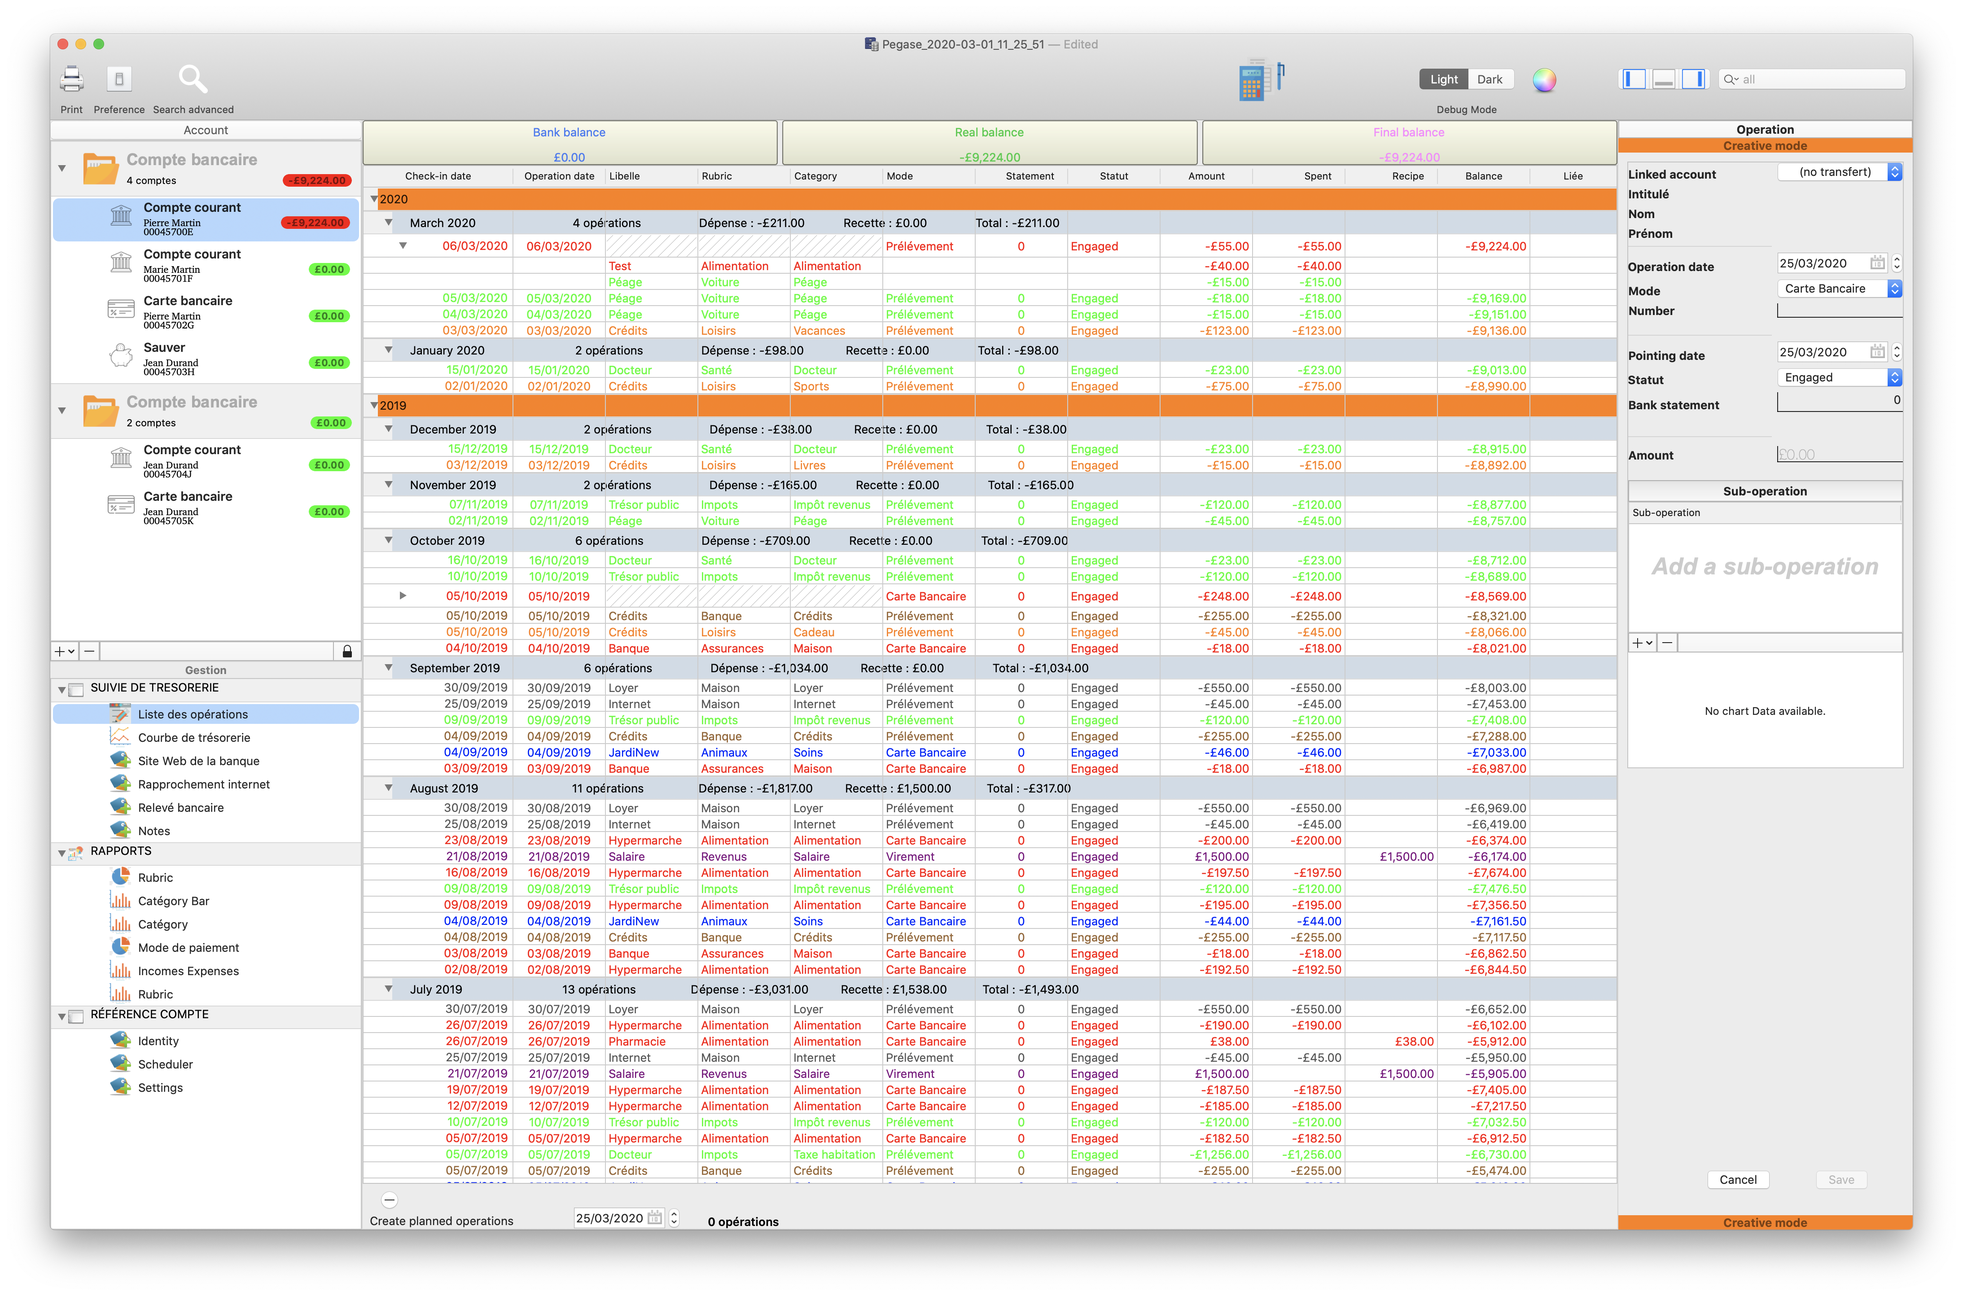
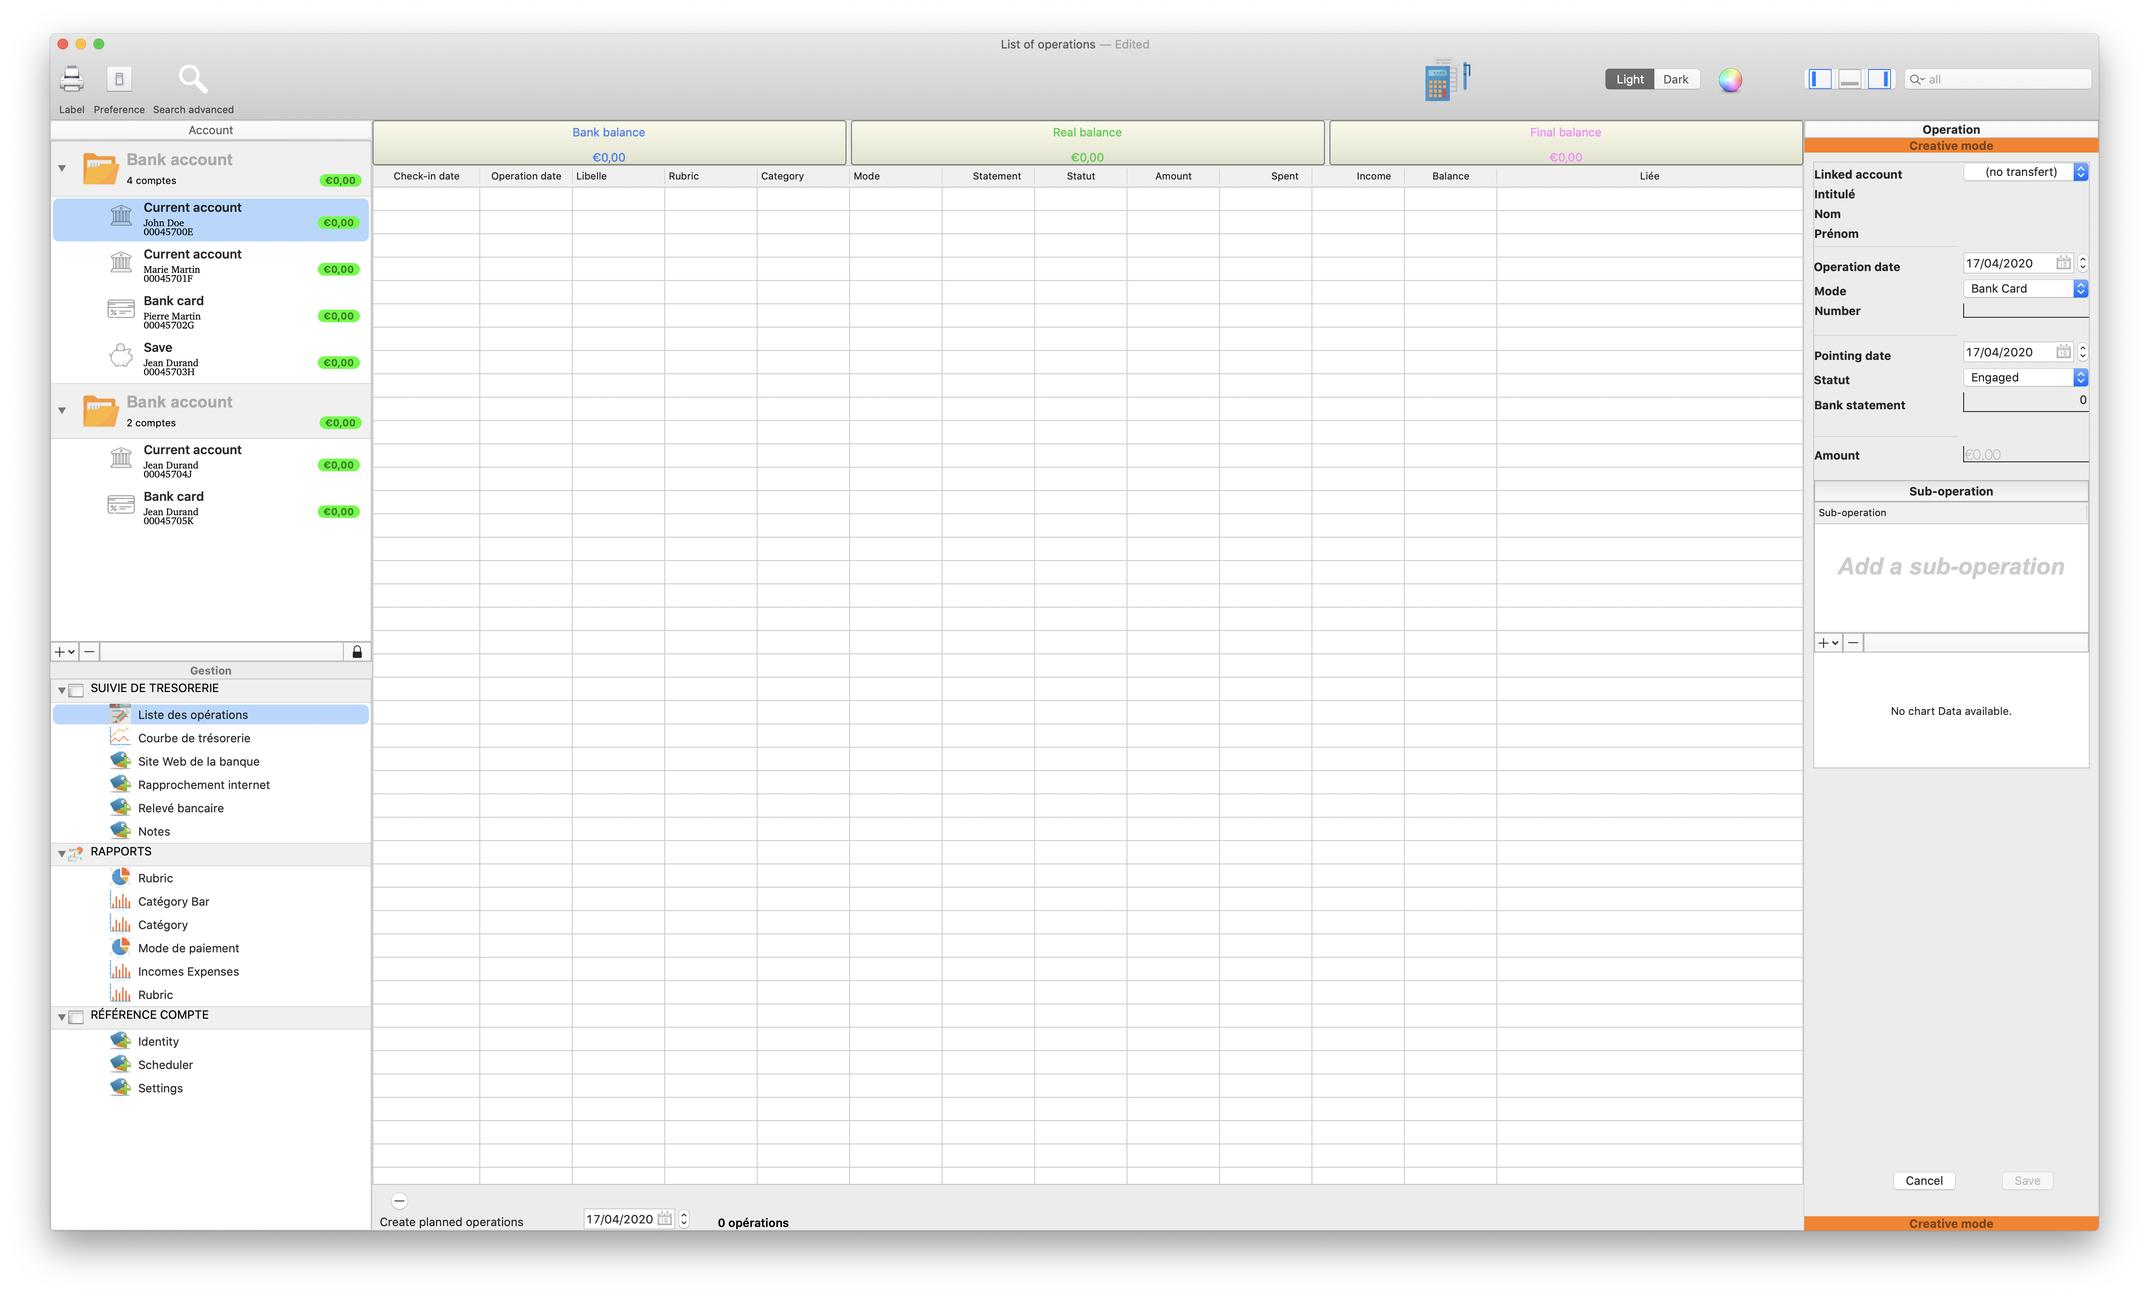
commit 2001

diff --git a/Pegase/ListeOperationsDelegate.swift b/Pegase/ListeOperationsDelegate.swift
@@ -57,15 +57,15 @@ extension ListeOperationsController: NSOutlineViewDelegate {
                     }
                 }
                 let depenseStr = formatterPrice.string(from: NSDecimalNumber(value: expenses))
-                let depenseFormatted = "Dépense : \( depenseStr!)".padding(toLength: 30, withPad: " ", startingAt: 0)
+                let depenseFormatted = "Expense : \( depenseStr!)".padding(toLength: 30, withPad: " ", startingAt: 0)
                 
-                let recetteStr = formatterPrice.string(from: NSDecimalNumber(value: incomes))
-                let recetteFormatted = "Recette : \( recetteStr!)".padding(toLength: 30, withPad: " ", startingAt: 0)
+                let incomeStr = formatterPrice.string(from: NSDecimalNumber(value: incomes))
+                let incomeFormatted = "Income : \( incomeStr!)".padding(toLength: 30, withPad: " ", startingAt: 0)
                 
                 let totalStr = formatterPrice.string(from: NSDecimalNumber(value: incomes + expenses))
                 let totalFormatted = "Total : \(totalStr!)".padding(toLength: 30, withPad: " ", startingAt: 0)
                 
-                titre = "     " + dateFormatted + operationsFormatted + depenseFormatted + recetteFormatted + totalFormatted
+                titre = "     " + dateFormatted + operationsFormatted + depenseFormatted + incomeFormatted + totalFormatted
             }
             
             let cellView = outlineView.makeView(withIdentifier: .FeedCellMonth, owner: self) as! KSHeaderCellView
@@ -170,7 +170,7 @@ extension ListeOperationsController: NSOutlineViewDelegate {
                     textField.stringValue = formatted
                     paragraph.alignment = .right
                 
-                case .recette:
+                case .income:
                     var price: NSNumber = 0.0
                     var formatted = ""
                     if quake.amount > 0 {
@@ -263,7 +263,7 @@ extension ListeOperationsController: NSOutlineViewDelegate {
                     textField.stringValue = formatted
                     paragraph.alignment = .right
                 
-                case .recette:
+                case .income:
                     var price: NSNumber = 0.0
                     var formatted = ""
                     if sousOperations.amount > 0 {
@@ -300,10 +300,10 @@ extension ListeOperationsController: NSOutlineViewDelegate {
         case .some(.unie):
             attrs[.foregroundColor] = NSColor.labelColor
         
-        case .some(.recette):
+        case .some(.income):
             switch propertyEnum {
             
-            case .depense, .montant, .recette:
+            case .depense, .montant, .income:
                 if quake.amount >= 0.0 {
                     attrs[.foregroundColor] = NSColor.green
                 } else {
@@ -353,10 +353,10 @@ extension ListeOperationsController: NSOutlineViewDelegate {
         case .some(.unie):
             attrs[.foregroundColor] = NSColor.labelColor
         
-        case .some(.recette):
+        case .some(.income):
             switch propertyEnum {
             
-            case .depense, .montant, .recette:
+            case .depense, .montant, .income:
                 if quake.amount >= 0.0 {
                     attrs[.foregroundColor] = NSColor.green
                 } else {

diff --git a/Pegase/IncomeExpensePieController.swift b/Pegase/IncomeExpensePieController.swift
@@ -49,7 +49,7 @@ class IncomeExpensePieController: CommonGraph {
         super.viewDidLoad()
         // Do view setup here.
         
-        NotificationCenter.receive(instance: self, name: .updateAccount, selector: #selector(updateChangeCompte(_:)))
+        NotificationCenter.receive(instance: self, name: .updateAccount, selector: #selector(updateChangeAccount))
         
         chartView.delegate = self
         chartView2.delegate = self
@@ -65,7 +65,7 @@ class IncomeExpensePieController: CommonGraph {
         updateAccount ()
     }
     
-    @objc func updateChangeCompte(_ note: Notification) {
+    @objc func updateChangeAccount(_ note: Notification) {
         
         updateAccount ()
         setDataHorizontal()
@@ -82,7 +82,7 @@ class IncomeExpensePieController: CommonGraph {
             .foregroundColor: NSColor.textColor,
             .paragraphStyle: paragraphStyle]
 
-        // MARK: - Chart View Depense
+        // MARK: - Chart View Expense
         var centerText = NSMutableAttributedString(string: Localizations.General.Expenses)
         centerText.setAttributes(attribut, range: NSRange(location: 0, length: centerText.length))
         chartView.centerAttributedText = centerText
@@ -99,7 +99,7 @@ class IncomeExpensePieController: CommonGraph {
         legend.font = NSFont(name: "HelveticaNeue-Light", size: CGFloat(14.0))!
         legend.textColor = .labelColor
 
-        // MARK: - Chart View2 Recette
+        // MARK: - Chart View2 Income
         centerText = NSMutableAttributedString(string: Localizations.General.Income)
         centerText.setAttributes(attribut, range: NSRange(location: 0, length: centerText.length))
         
@@ -174,7 +174,7 @@ class IncomeExpensePieController: CommonGraph {
         resultArrayIncome = resultArrayIncome.sorted(by: { $0.name < $1.name })
     }
     
-    func setDataCount1()
+    func setDataExpenses()
     {
         guard resultArrayExpense.isEmpty == false  else {
             chartView.data = nil
@@ -191,7 +191,7 @@ class IncomeExpensePieController: CommonGraph {
         }
         
         // MARK: PieChartDataSet
-        let dataSet = PieChartDataSet(entries: entries, label: "Dépenses")
+        let dataSet = PieChartDataSet(entries: entries, label: "Expenses")
         dataSet.sliceSpace = 2.0
         dataSet.colors = colors
         dataSet.valueLinePart1OffsetPercentage = 0.8
@@ -211,7 +211,7 @@ class IncomeExpensePieController: CommonGraph {
         chartView.data = data
     }
     
-    private func setDataCount2()
+    private func setDataIncomes()
     {
         guard resultArrayIncome.isEmpty == false else {
             chartView2.data = nil
@@ -228,7 +228,7 @@ class IncomeExpensePieController: CommonGraph {
         }
 
         // MARK: PieChartDataSet
-        let dataSet = PieChartDataSet(entries: entries, label: "Recettes")
+        let dataSet = PieChartDataSet(entries: entries, label: "Incomes")
         dataSet.sliceSpace = 2.0
         dataSet.colors = colors
         dataSet.valueLinePart1OffsetPercentage = 0.8
@@ -281,8 +281,8 @@ extension IncomeExpensePieController: SliderHorizontalDelegate {
     
     func setDataHorizontal() {
         self.updateChartData()
-        self.setDataCount1()
-        self.setDataCount2()
+        self.setDataExpenses()
+        self.setDataIncomes()
     }
     
 }

diff --git a/Pegase/IncomeExpenseBarController.swift b/Pegase/IncomeExpenseBarController.swift
@@ -198,8 +198,8 @@ final class IncomeExpenseBarController: CommonGraph {
         let barWidth = 0.4
         
         // MARK: BarChartDataEntry
-        var entriesDepense = [BarChartDataEntry]()
-        var entriesRecette = [BarChartDataEntry]()
+        var entriesExpense = [BarChartDataEntry]()
+        var entriesIncome = [BarChartDataEntry]()
         
         self.label.removeAll()
         
@@ -207,8 +207,8 @@ final class IncomeExpenseBarController: CommonGraph {
         var dateString = ""
         
         for i in 0 ..< resultArrayExpense.count {
-            entriesDepense.append(BarChartDataEntry(x: Double(i), y: abs(resultArrayExpense[i].value)))
-            entriesRecette.append(BarChartDataEntry(x: Double(i), y: resultArrayIncome[i].value))
+            entriesExpense.append(BarChartDataEntry(x: Double(i), y: abs(resultArrayExpense[i].value)))
+            entriesIncome.append(BarChartDataEntry(x: Double(i), y: resultArrayIncome[i].value))
             
             let numericSection = Int(resultArrayExpense[i].name)
             components.year = numericSection! / 100
@@ -226,20 +226,20 @@ final class IncomeExpenseBarController: CommonGraph {
         
         if chartView.data == nil {
             
-            dataSet1 = BarChartDataSet(entries: entriesDepense, label: "Dépense")
+            dataSet1 = BarChartDataSet(entries: entriesExpense, label: "Expense")
             dataSet1.colors = [#colorLiteral(red: 0.01680417731, green: 0.1983509958, blue: 1, alpha: 1)]
             dataSet1.valueFormatter = DefaultValueFormatter(formatter: formatterPrice)
             
-            dataSet2 = BarChartDataSet(entries: entriesRecette, label: "Recette")
+            dataSet2 = BarChartDataSet(entries: entriesIncome, label: "Income")
             dataSet2.colors = [#colorLiteral(red: 1, green: 0.1474981606, blue: 0, alpha: 1)]
             dataSet2.valueFormatter = DefaultValueFormatter(formatter: formatterPrice)
         } else {
             
             dataSet1 = (chartView.data!.dataSets[0] as! BarChartDataSet )
-            dataSet1.replaceEntries( entriesDepense )
+            dataSet1.replaceEntries( entriesExpense )
             
             dataSet2 = (chartView.data!.dataSets[1] as! BarChartDataSet )
-            dataSet2.replaceEntries( entriesRecette )
+            dataSet2.replaceEntries( entriesIncome )
         }
         
         // MARK: BarChartData

diff --git a/Pegase/RubricPieController.swift b/Pegase/RubricPieController.swift
@@ -9,7 +9,6 @@ final class RubricPieController: NSViewController
     @IBOutlet var chartView2: PieChartView!
     @IBOutlet weak var splitView: NSSplitView!
     
-
     var sliderViewController: SliderViewHorizontalController?
     
     var listeOperations = [EntityOperations]()
@@ -104,7 +103,7 @@ final class RubricPieController: NSViewController
                .foregroundColor: NSColor.textColor,
                .paragraphStyle: paragraphStyle]
         
-        var centerText = NSMutableAttributedString(string: "Dépenses")
+        var centerText = NSMutableAttributedString(string: "Expenses")
         centerText.setAttributes(attribut, range: NSRange(location: 0, length: centerText.length))
         
         // MARK: legend
@@ -115,7 +114,7 @@ final class RubricPieController: NSViewController
         self.chartView.noDataText = Localizations.Chart.No_chart_Data_Available
         chartView.holeColor = .windowBackgroundColor
         
-        centerText = NSMutableAttributedString(string: "Recettes")
+        centerText = NSMutableAttributedString(string: "incomes")
         centerText.setAttributes(attribut, range: NSRange(location: 0, length: centerText.length))
         
         // MARK: legend
@@ -218,7 +217,7 @@ final class RubricPieController: NSViewController
         }
         
         // MARK: PieChartDataSet
-        let dataSet = PieChartDataSet(entries: entries, label: "Dépenses")
+        let dataSet = PieChartDataSet(entries: entries, label: "Expenses")
         dataSet.sliceSpace = 2.0
         dataSet.colors = colors
         dataSet.valueLinePart1OffsetPercentage = 0.8
@@ -257,7 +256,7 @@ final class RubricPieController: NSViewController
         }
 
         // MARK: PieChartDataSet
-        let dataSet = PieChartDataSet(entries: entries, label: "Recettes")
+        let dataSet = PieChartDataSet(entries: entries, label: "Incomes")
         dataSet.sliceSpace = 2.0
         dataSet.colors = colors
         dataSet.valueLinePart1OffsetPercentage = 0.8

diff --git a/Pegase/ModePaiementPieController.swift b/Pegase/ModePaiementPieController.swift
@@ -91,7 +91,7 @@ final class ModePaiementPieController: CommonGraph {
         legend.font = NSFont(name: "HelveticaNeue-Light", size: CGFloat(14.0))!
         legend.textColor = .labelColor
 
-        // MARK: - Chart View2 Recette
+        // MARK: - Chart View2 Income
         centerText = NSMutableAttributedString(string: Localizations.General.Income)
         centerText.setAttributes(attribut, range: NSRange(location: 0, length: centerText.length))
         
@@ -183,7 +183,7 @@ final class ModePaiementPieController: CommonGraph {
         }
         
         // MARK: PieChartDataSet
-        let dataSet = PieChartDataSet(entries: entries, label: "Dépenses")
+        let dataSet = PieChartDataSet(entries: entries, label: "Expenses")
         dataSet.sliceSpace = 2.0
         dataSet.colors = colors
         dataSet.valueLinePart1OffsetPercentage = 0.8
@@ -220,7 +220,7 @@ final class ModePaiementPieController: CommonGraph {
         }
 
         // MARK: PieChartDataSet
-        let dataSet = PieChartDataSet(entries: entries, label: "Recettes")
+        let dataSet = PieChartDataSet(entries: entries, label: "Incomes")
         dataSet.sliceSpace = 2.0
         dataSet.colors = colors
         dataSet.valueLinePart1OffsetPercentage = 0.8
@@ -257,7 +257,7 @@ extension ModePaiementPieController: ChartViewDelegate {
     public func chartValueSelected(_ chartView: ChartViewBase, entry: ChartDataEntry, highlight: Highlight) {
         
         var p5 = NSPredicate()
-        if chartView.identifier?.rawValue == "Depense" {
+        if chartView.identifier?.rawValue == "Expense" {
             p5 = NSPredicate(format: "amount < 0")
         } else {
             p5 = NSPredicate(format: "amount >= 0")

diff --git a/Pegase/ListeOperationsController.swift b/Pegase/ListeOperationsController.swift
@@ -37,7 +37,7 @@ final class ListeOperationsController: NSViewController {
         case liee
         case mode
         case montant
-        case recette
+        case income
         case releveBancaire
         case rubrique
         case solde
@@ -46,7 +46,7 @@ final class ListeOperationsController: NSViewController {
 
     enum TypeOfColor: String {
         case unie     = "unie"
-        case recette  = "recette/depense"
+        case income  = "recette/depense"
         case rubrique = "rubrique"
         case statut   = "statut"
         case mode     = "mode"
@@ -195,7 +195,7 @@ final class ListeOperationsController: NSViewController {
         self.theBox3.cornerRadius = 3
         self.theBox3.fillColor = NSColor(patternImage: NSImage(named: NSImage.Name( "Gradient"))!)
         
-        //        outlineListView.doubleAction = #selector(doubleClicked)
+                outlineListView.doubleAction = #selector(doubleClicked)
 
         self.outlineListView.rowSizeStyle = .custom
         self.outlineListView.reloadData()
@@ -203,9 +203,9 @@ final class ListeOperationsController: NSViewController {
         self.outlineListView.expandItem(nil, expandChildren: true)
         
         let count = listeOperations.count
-        let str = String(format: "%d opérations", count)
+        let strInfo = String(format: "%d opérations", count)
         
-        let attributedText = NSAttributedString(string: str, attributes: attribute)
+        let attributedText = NSAttributedString(string: strInfo, attributes: attribute)
         self.labelInfo.attributedStringValue = attributedText
     }
     

diff --git a/Pegase/ListeOperationsMenuDelegate.swift b/Pegase/ListeOperationsMenuDelegate.swift
@@ -85,12 +85,12 @@ extension ListeOperationsController: NSMenuDelegate {
         
         if identifierCol == "montant" {
             columnVisibilityDictionary!["recette"] = false
-            let itemRecette = parentMenu?.item(withTitle: incomes)
-            itemRecette?.state = menuItem.state == .on ? .off : .on
+            let itemIncome = parentMenu?.item(withTitle: incomes)
+            itemIncome?.state = menuItem.state == .on ? .off : .on
             
             columnVisibilityDictionary!["depense"] = false
-            let itemDepense = parentMenu?.item(withTitle: expenses)
-            itemDepense?.state = menuItem.state == .on ? .off : .on
+            let itemExpense = parentMenu?.item(withTitle: expenses)
+            itemExpense?.state = menuItem.state == .on ? .off : .on
         }
         
         for column in outlineListView.tableColumns

diff --git a/Pegase/CategoryBarController.swift b/Pegase/CategoryBarController.swift
@@ -9,9 +9,7 @@ final class CategoryBarController: CommonGraph
     @IBOutlet var chartView: BarChartView!
     @IBOutlet weak var backToBrands: NSButton!
     @IBOutlet weak var splitView: NSSplitView!
-    
-//    var sliderViewController: SliderViewHorizontalController?
-    
+       
     var label  = [String]()
     var data = [DataGraph]()
     var resultArray = [DataGraph]()
@@ -23,10 +21,6 @@ final class CategoryBarController: CommonGraph
         return _formatter
     }()
     
-//    var listeOperations = [EntityOperations]()
-//    var firstDate: TimeInterval = 0.0
-//    var lastDate: TimeInterval = 0.0
-
     var startDate = Date()
     var endDate = Date()
     

diff --git a/Pegase/SplashScreenWindowController.swift b/Pegase/SplashScreenWindowController.swift
@@ -104,10 +104,12 @@ class SplashScreenWindowController: NSWindowController {
             //            try FileManager.default.copyItem(at: URL2, to: URL5)
             //            try FileManager.default.copyItem(at: URL3, to: URL6)
             
-        } catch {
+        } catch let error {
             print("=======================")
             print("ERROR IN COPY OPERATION")
             print("=======================")
+            print("Operation failed again, abort with error: \(error)")
+
         }
         
         let documentController = NSDocumentController.shared

diff --git a/Pegase/Feed.swift b/Pegase/Feed.swift
@@ -26,3 +26,17 @@ extension Data {
     }
 }
 
+//extension Data {
+//    func decoded<T: Decodable>() throws -> T {
+//        return try JSONDecoder().decode(T.self, from: self)
+//    }
+//}
+
+
+
+protocol AnyDecoder {
+    func decode<T: Decodable>(_ type: T.Type, from data: Data) throws -> T
+}
+
+extension JSONDecoder: AnyDecoder {}
+extension PropertyListDecoder: AnyDecoder {}

diff --git a/Pegase/EcheanciersViewController.swift b/Pegase/EcheanciersViewController.swift
@@ -56,7 +56,7 @@ final class EcheanciersViewController: NSViewController {
         updateData()
     }
     
-    //NSOutlineViewDelegate
+    //NSTableViewDelegate
     @objc func selectionDidChange(_ notification: Notification) {
         guard let tableView = notification.object as? NSTableView else { return }
         
